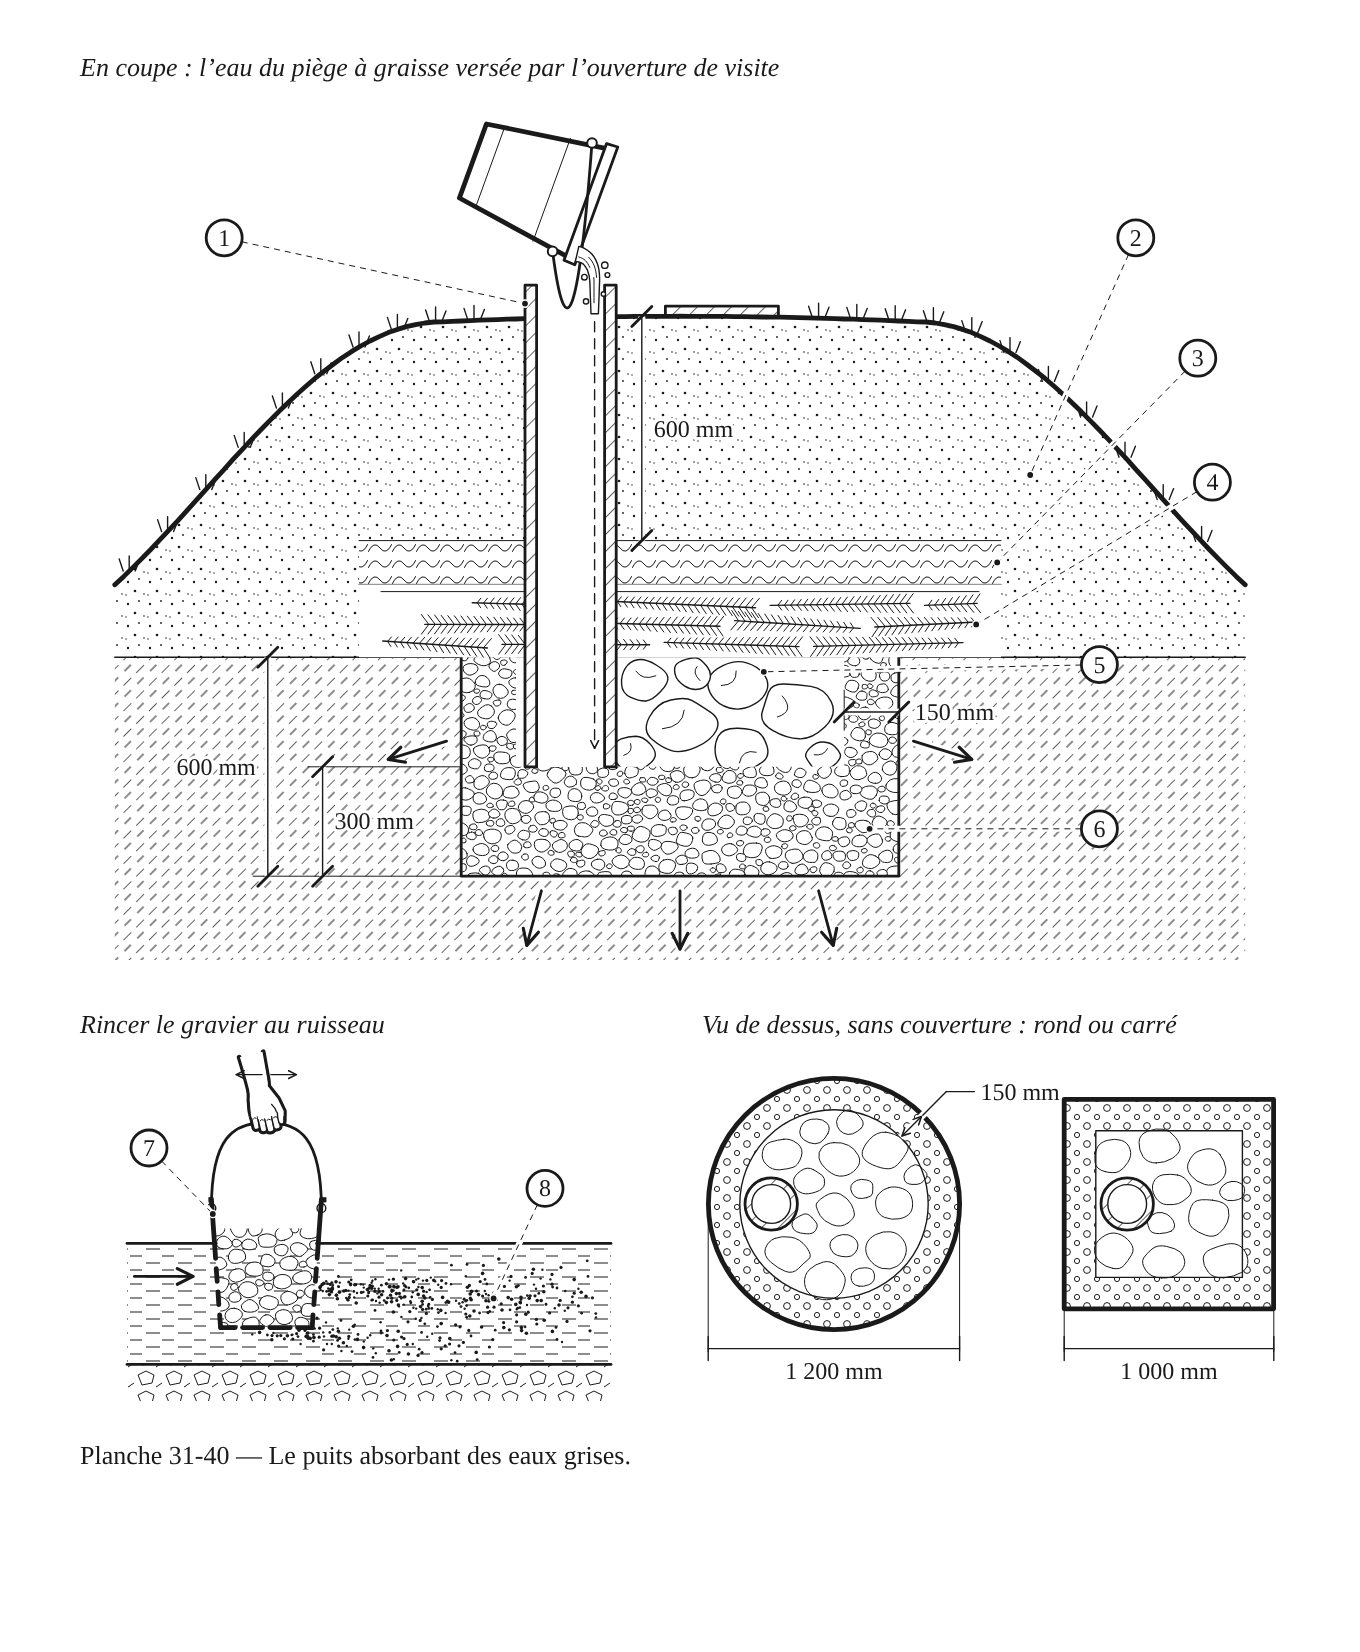
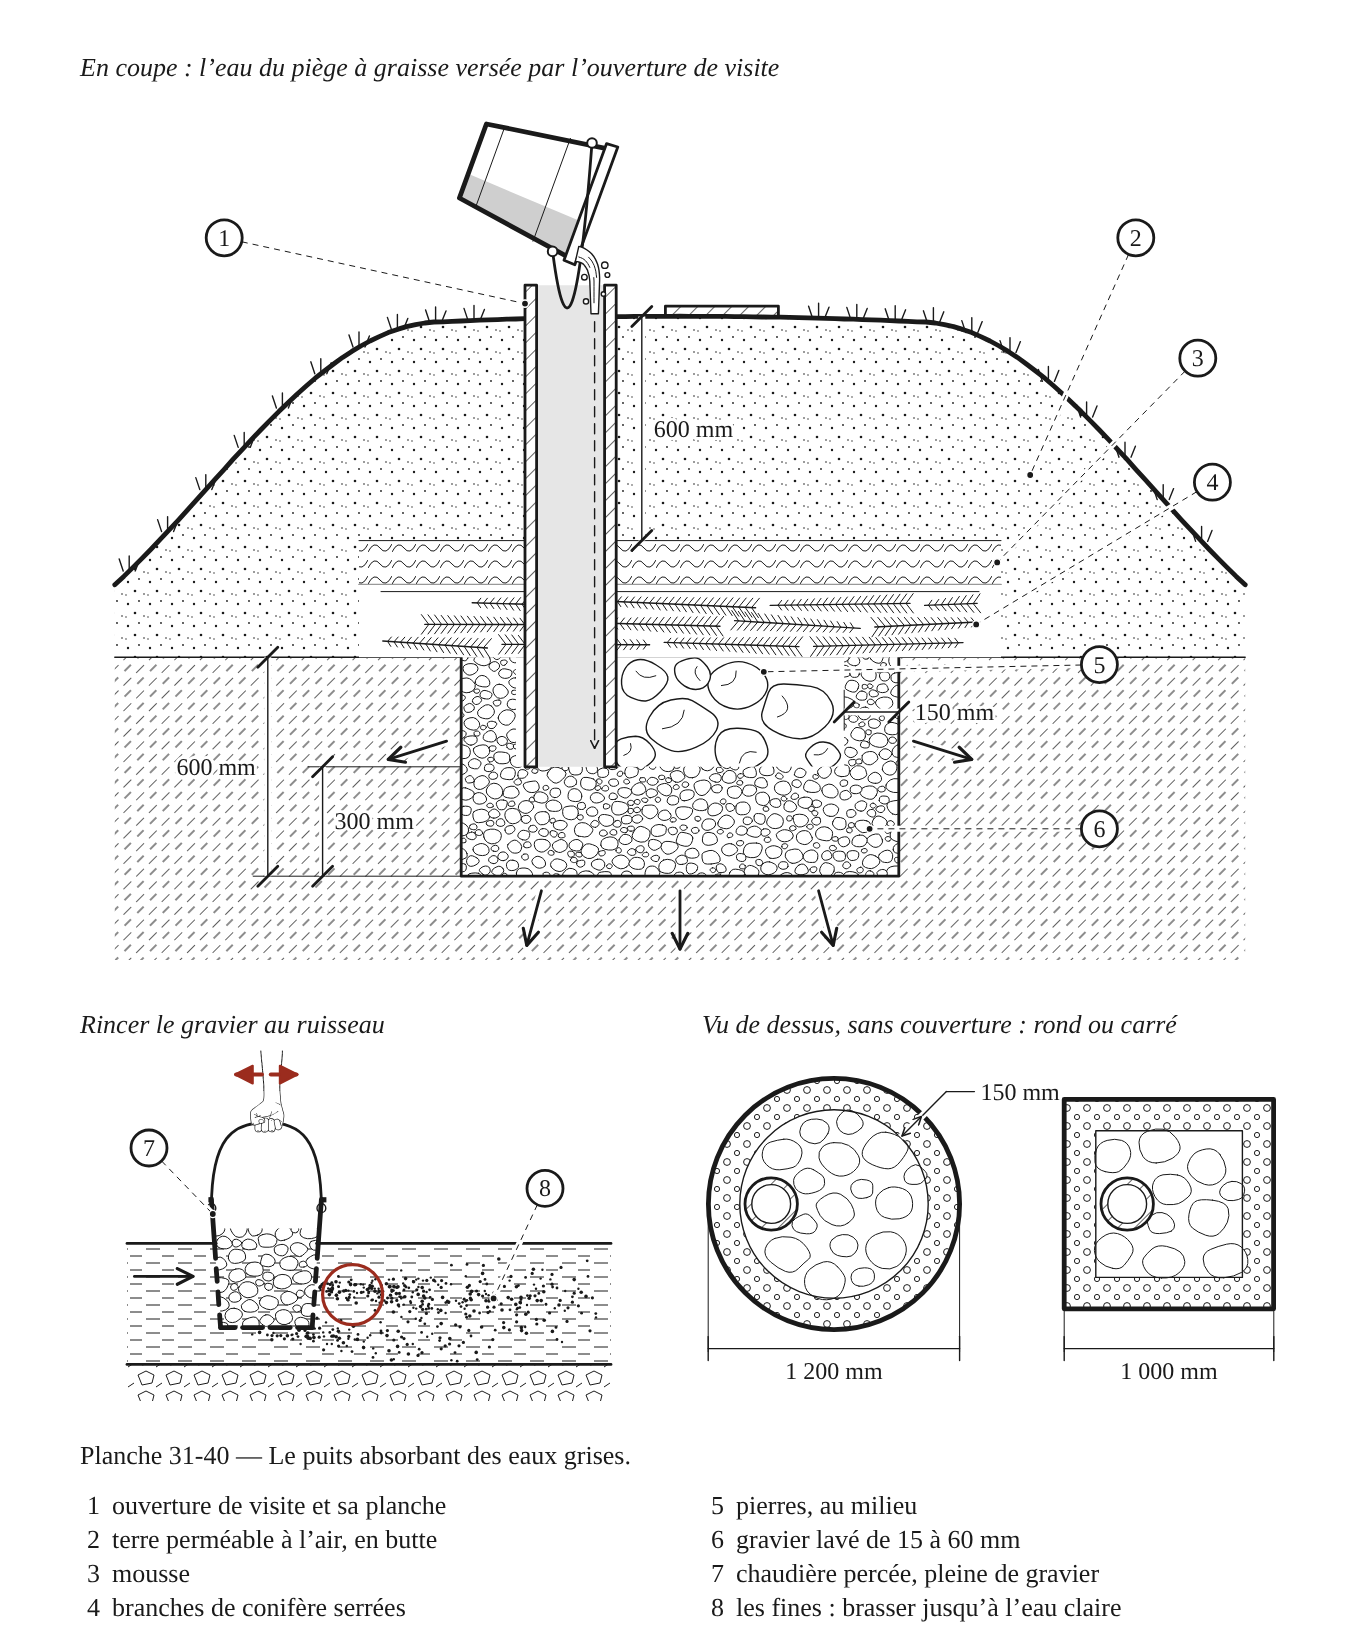
Charte et mains : travail en cours
Claude-Session: https://claude.ai/code/session_014xDY5FLxFXDJt3nYAYznSZ

diff --git a/images/planches-src/91-11.js b/images/planches-src/91-11.js
@@ -5,11 +5,16 @@
 // Ajouts de construction que le chapitre ne nomme pas, pour que la chose se bâtisse et marche :
 // les bûches (le bas ouvert doit respirer), les tasseaux (la claie doit reposer sur quelque
 // chose), la porte à l'avant (les claies doivent sortir pour être tournées).
+// La charte : la caisse et sa claie au contour fort ; le poêle, qui n'est là que pour dire « à
+// côté », recule en gris loin, en coupe comme de dessus ; la claie du haut, vue par la part
+// ouverte du trou, en gris loin aussi. Le rouge : la tôle qu'on avance ou recule (le geste), et
+// la perle de jus du fruit pas prêt (le point que le test vérifie). Les flèches d'air restent
+// noires.
 
 module.exports = (h) => {
   const f = v => Math.round(v * 10) / 10;
   const blanc = a => a.replace('fill="none"', 'fill="#FFFFFF"');
-  const deuxBouts = a => `${a} marker-start="url(#fl)" marker-end="url(#fl)"`;
+  const gris = a => a.replace('fill="none"', 'fill="#E6E6E6"');
   const fleAir = d => h.fleche(d, h.a.cache);
 
   // Proportions communes à la coupe et au plan, en fractions de la largeur de la coupe.
@@ -41,13 +46,13 @@ module.exports = (h) => {
 
     // poêle, en élévation
     const { xs0, ws, ybB, ybT, hs } = c;
-    o.push(h.rect(xs0 + 6, ybB, 7, c.pattes, blanc(h.a.arete)));
-    o.push(h.rect(xs0 + ws - 13, ybB, 7, c.pattes, blanc(h.a.arete)));
+    o.push(h.rect(xs0 + 6, ybB, 7, c.pattes, gris(h.a.arete)));
+    o.push(h.rect(xs0 + ws - 13, ybB, 7, c.pattes, gris(h.a.arete)));
     const xp = xs0 + ws * 0.62, wp = 16;
-    o.push(h.rect(xp, 0, wp, ybT - 6, blanc(h.a.arete)));
+    o.push(h.rect(xp, 0, wp, ybT - 6, gris(h.a.arete)));
     o.push(h.ligne(xp, f((ybT - 6) * 0.45), xp + wp, f((ybT - 6) * 0.45), h.a.detail));
-    o.push(h.rect(xs0, ybT, ws, hs, blanc(h.a.arete)));
-    o.push(h.rect(xs0 - 4, ybT - 6, ws + 8, 6, blanc(h.a.arete)));
+    o.push(h.rect(xs0, ybT, ws, hs, gris(h.a.arete)));
+    o.push(h.rect(xs0 - 4, ybT - 6, ws + 8, 6, gris(h.a.arete)));
     const px = xs0 + ws * 0.14, pw = ws * 0.6, py = ybT + hs * 0.24, ph = hs * 0.48;
     o.push(h.rect(f(px), f(py), f(pw), f(ph), h.a.detail));
     o.push(h.ligne(f(px + pw - 9), f(py + ph * 0.4), f(px + pw - 9), f(py + ph * 0.6), h.a.arete));
@@ -119,15 +124,16 @@ module.exports = (h) => {
   const dessinPlan = z => {
     const p = plan(z), o = [];
     // poêle, vu de dessus
-    o.push(h.rect(p.xs0, p.ySt, p.ws, p.dS, blanc(h.a.arete)));
+    o.push(h.rect(p.xs0, p.ySt, p.ws, p.dS, gris(h.a.arete)));
     o.push(h.rect(p.xs0 + 5, p.ySt + 5, p.ws - 10, p.dS - 10, h.a.detail));
-    o.push(h.cercle(f(p.xs0 + p.ws * 0.66), f(p.ySt + p.dS * 0.36), 8, blanc(h.a.arete)));
+    o.push(h.cercle(f(p.xs0 + p.ws * 0.66), f(p.ySt + p.dS * 0.36), 8, gris(h.a.arete)));
 
     // dessus de la caisse, percé
     o.push(h.rect(p.xB, p.yBk, p.wB, p.dB, blanc(h.a.contour)));
     // l'ouverture : en tireté sous la tôle, en trait plein là où elle est découverte
     o.push(h.rect(p.xO1, p.yO1, p.xO2 - p.xO1, p.yO2 - p.yO1, h.a.cache));
-    // la claie du haut, vue par la part ouverte
+    // la claie du haut, vue par la part ouverte : l'intérieur, en gris loin
+    o.push(h.rect(p.xT1, p.yO1, p.xO2 - p.xT1, p.yO2 - p.yO1, h.a.loin));
     for (let y = p.yO1 + 8; y < p.yO2 - 4; y += 10) {
       for (let x = p.xT1 + 7; x < p.xO2 - 4; x += 10) o.push(h.cercle(x, y, 3.8, h.a.detail));
     }
@@ -138,7 +144,8 @@ module.exports = (h) => {
     o.push(h.path(`M ${p.xT1} ${p.yO1} L ${p.xO1} ${p.yO1} L ${p.xO1} ${p.yO2} L ${p.xT1} ${p.yO2}`, h.a.cache));
     o.push(h.path(`M ${p.xT1} ${p.yO1} L ${p.xO2} ${p.yO1} L ${p.xO2} ${p.yO2} L ${p.xT1} ${p.yO2}`, h.a.arete));
     const yf = p.yBk - 16;
-    o.push(h.path(`M ${p.xO1 - 10} ${yf} L ${p.xT1 + 14} ${yf}`, deuxBouts(h.a.arete)));
+    // le geste : avancer ou reculer la tôle
+    o.push(h.geste(`M ${p.xO1 - 10} ${yf} L ${p.xT1 + 14} ${yf}`, { double: true }));
 
     // porte à l'avant, charnière du côté opposé au poêle
     const ep = 5, xH = p.xB + p.wB, yH = p.yF + ep;
@@ -230,6 +237,8 @@ module.exports = (h) => {
       const gx = x + 2, gy = yc + 1;
       o.push(h.path(`M ${gx} ${gy} C ${gx + 8} ${gy + 6} ${gx + 10} ${gy + 14} ${gx} ${gy + 18} C ${gx - 10} ${gy + 14} ${gx - 8} ${gy + 6} ${gx} ${gy} Z`, blanc(h.a.arete)));
       o.push(h.path(`M ${gx - 4} ${gy + 10} Q ${gx - 4} ${gy + 14} ${gx - 0.5} ${gy + 15}`, h.a.fin));
+      // le point que le test vérifie : la fente pressée qui laisse sortir le jus
+      o.push(h.controle(gx, gy + 9, 14));
       o.push(couronne(x, yc - R + 7));
     }
     // 3. séché trop chaud, coupé en deux : croûte dehors, humide au centre

diff --git a/images/planches-src/82-10a.js b/images/planches-src/82-10a.js
@@ -6,6 +6,11 @@
 //
 // Chaque vue a son repère de modèle (unités arbitraires, jamais imprimées), mis à l'échelle
 // par cadre() pour remplir la vue en gardant les proportions.
+//
+// La charte : de côté, le dessous de la tôle roulée et le dessous des bouts de bille à l'ombre ;
+// la clé en coupe, l'intérieur du tuyau en gris loin. Le rouge : le coup de marteau qui rabat le
+// joint (deux vues), et le jour entre le disque et la paroi, le point qui décide du tirage. La
+// fumée reste noire.
 
 module.exports = (h) => {
   const f = v => +v.toFixed(1);
@@ -42,18 +47,25 @@ module.exports = (h) => {
     // le sol
     o.push(g.R(0, 185, 600, 11, h.a.hachure('terre', 'aucun')), g.L(0, 185, 600, 185, h.a.arete));
     // la bille de côté, coupée à la scie aux deux bouts
-    o.push(g.P(g.D(['M', 12, cy - r], ['L', 390, cy - r], ['L', 393, cy - 20], ['L', 390, cy + r],
-      ['L', 12, cy + r], ['L', 9, cy + 15], ['Z']), W('arete')));
+    const dBille = g.D(['M', 12, cy - r], ['L', 390, cy - r], ['L', 393, cy - 20], ['L', 390, cy + r],
+      ['L', 12, cy + r], ['L', 9, cy + 15], ['Z']);
+    o.push(g.P(dBille, h.a.blanc));
+    // le dessous des deux bouts de bille, à l'ombre
+    o.push(g.P(g.D(['M', 11, cy + 46], ['L', 60, cy + 46], ['L', 60, cy + r], ['L', 12, cy + r], ['Z']), h.a.ombre));
+    o.push(g.P(g.D(['M', 330, cy + 46], ['L', 390.6, cy + 46], ['L', 390, cy + r], ['L', 330, cy + r], ['Z']), h.a.ombre));
+    o.push(g.P(dBille, h.a.arete));
     [[16, 70, 44], [22, 96, 50], [14, 150, 40], [26, 168, 52], [336, 72, 384], [344, 100, 380],
       [334, 142, 378], [348, 166, 386]].forEach(([x1, y, x2]) => o.push(g.L(x1, y, x2, y, h.a.fin)));
     // la tôle roulée dessus, et le joint agrafé sur toute la longueur, en haut
-    o.push(g.R(60, cy - r - 3, 270, 2 * r + 6, W('contour')));
+    o.push(g.R(60, cy - r - 3, 270, 2 * r + 6, h.a.blanc));
+    o.push(g.R(60, cy + r - 16, 270, 19, h.a.ombre));   // le dessous de la tôle roulée, à l'ombre
+    o.push(g.R(60, cy - r - 3, 270, 2 * r + 6, h.a.contour));
     [cy + r - 14, cy + r - 8, cy + r - 3].forEach(y => o.push(g.L(64, y, 326, y, h.a.fin)));
     o.push(g.R(60, cy - r - 10, 270, 7, W('arete')), g.L(60, cy - r - 6.5, 330, cy - r - 6.5, h.a.fin));
     // le marteau qui rabat le joint
     o.push(g.P(g.D(['M', 214, 11], ['L', 322, 3], ['L', 324, 11], ['L', 214, 20], ['Z']), W('arete')));
     o.push(g.R(186, 2, 28, 28, W('arete')));
-    o.push(g.F(g.D(['M', 176, 6], ['L', 176, 40])));
+    o.push(h.geste(g.D(['M', 176, 6], ['L', 176, 40])));
     // du bout : les cernes, la tôle autour, le joint en haut
     const bx = 515;
     o.push(g.C(bx, cy, r, W('arete')));
@@ -101,7 +113,7 @@ module.exports = (h) => {
     o.push(...rabattu(ox));
     o.push(g.P(g.D(['M', ox + 92, 22], ['L', ox + 136, 18], ['L', ox + 137, 25], ['L', ox + 92, 29], ['Z']), W('arete')));
     o.push(g.R(ox + 64, 12, 28, 30, W('arete')));
-    o.push(g.F(g.D(['M', ox + 54, 10], ['L', ox + 54, 44])));
+    o.push(h.geste(g.D(['M', ox + 54, 10], ['L', ox + 54, 44])));
 
     // 4. river, la bille sortie : le rivet traverse les quatre épaisseurs
     ox = 450;
@@ -118,6 +130,8 @@ module.exports = (h) => {
   const cx = 120, R = 80, jeu = 12, yd = 150;
   const cle = z => {
     const g = cadre(z, ...MC), o = [];
+    // l'intérieur du tuyau, vu par la coupe
+    o.push(g.R(cx - R, 6, 2 * R, 288, h.a.loin));
     // la fumée monte, se partage au disque et passe par le tour
     [1, -1].forEach(k => {
       const a = cx - k * 20, b = cx - k * (R - jeu / 2);
@@ -131,6 +145,8 @@ module.exports = (h) => {
     o.push(g.P(g.D(['M', cx - 6, yd + 1.5], ['C', cx - 7, yd - 14, cx + 7, yd - 14, cx + 6, yd + 1.5]), h.a.contour));
     // ouvert : le même disque tourné sur la tige, de chant
     o.push(g.R(cx + 1, yd - 4 - (R - jeu), 3, 2 * (R - jeu), h.a.cache));
+    // le point qui décide : le jour entre le disque et la paroi
+    o.push(g.C(cx - R + jeu / 2, yd + 1.5, 10, h.a.controle));
     return o.join('\n');
   };
 

diff --git a/images/planches-src/31-40.js b/images/planches-src/31-40.js
@@ -1,5 +1,10 @@
 // Planche 31-40 — Le puits absorbant des eaux grises (ch. 31, section F, étapes 32, 33, 35 ;
 // variante « Le puits absorbant fait à la pelle »). Suite de la 31-04 (le piège à graisse).
+//
+// La charte : les coupes et le plan gardent leurs trames, sans gris, sauf l'intérieur du tronc de
+// visite, vu par la coupe, en gris loin ; le flanc du dessous du seau penché est à l'ombre. Le
+// rouge : le va-et-vient de la main qui brasse la chaudière, et le cercle sur l'eau qui sort, qui
+// doit sortir claire. Les flèches de l'eau restent noires ; la main (modèle s11) n'est pas touchée.
 module.exports = (h) => {
   const N = '#1A1A1A', B = '#FFFFFF';
   const f = v => Math.round(v * 10) / 10;
@@ -132,6 +137,7 @@ module.exports = (h) => {
 
     // l'ouverture de visite : un tronc creux, du gravier du fond jusqu'au-dessus de la butte
     out.push(poly([[tx - tr, tH], [tx + tr, tH], [tx + tr, tB], [tx - tr, tB]], h.a.blanc));
+    out.push(poly([[tx - tr + te, tH], [tx + tr - te, tH], [tx + tr - te, tB], [tx - tr + te, tB]], h.a.loin));   // l'intérieur du tronc, vu par la coupe
     out.push(poly([[tx - tr, tH], [tx - tr + te, tH], [tx - tr + te, tB], [tx - tr, tB]], h.a.hachure('bois', 'arete')));
     out.push(poly([[tx + tr - te, tH], [tx + tr, tH], [tx + tr, tB], [tx + tr - te, tB]], h.a.hachure('bois', 'arete')));
     // sa planche, ôtée et posée sur la butte
@@ -150,7 +156,9 @@ module.exports = (h) => {
     const R = (x, y) => [bx + x * Math.cos(th) - y * Math.sin(th), by + x * Math.sin(th) + y * Math.cos(th)];
     // chaudière : flancs évasés vers l'ouverture, bourrelet roulé au rebord, anse qui pend
     const seau = [R(-160, 0), R(160, 0), R(108, 350), R(-108, 350)];
-    out.push(poly(seau, `fill="${B}" ${h.a.contour.replace('fill="none" ', '')}`));
+    out.push(poly(seau, h.a.blanc));
+    out.push(poly([R(55, 0), R(160, 0), R(108, 350), R(37, 350)], h.a.ombre));   // le flanc du dessous, à l'ombre
+    out.push(poly(seau, h.a.contour));
     out.push(poly([R(-172, -10), R(172, -10), R(170, 22), R(-170, 22)], `fill="${B}" ${h.a.arete.replace('fill="none" ', '')}`));   // bourrelet
     out.push(poly([R(-150, 120), R(150, 120)], h.a.fin, false), poly([R(-118, 300), R(118, 300)], h.a.fin, false));
     {
@@ -276,8 +284,10 @@ module.exports = (h) => {
     const c0 = P(-360, 90), c1 = P(-200, 90);
     out.push(h.fleche(`M${f(c0[0])} ${f(c0[1])} L${f(c1[0])} ${f(c1[1])}`, h.a.arete));
     const v = P(0, -460), dv = 70 * s;
-    out.push(h.fleche(`M${f(v[0] + 12 * s)} ${f(v[1])} L${f(v[0] + 12 * s + dv)} ${f(v[1])}`, h.a.detail));
-    out.push(h.fleche(`M${f(v[0] - 12 * s)} ${f(v[1])} L${f(v[0] - 12 * s - dv)} ${f(v[1])}`, h.a.detail));
+    out.push(h.geste(`M${f(v[0] + 12 * s)} ${f(v[1])} L${f(v[0] + 12 * s + dv)} ${f(v[1])}`));
+    out.push(h.geste(`M${f(v[0] - 12 * s)} ${f(v[1])} L${f(v[0] - 12 * s - dv)} ${f(v[1])}`));
+    // ce qu'on regarde : l'eau qui sort de la chaudière, jusqu'à ce qu'elle sorte claire
+    out.push(h.controle(...P(235, 140), 15));
     return out.join('\n');
   };
 

diff --git a/images/planches-src/99-08.js b/images/planches-src/99-08.js
@@ -162,6 +162,8 @@ module.exports = (h) => {
     ecorce(t4, 22, 7, 0.02, 0.6);
     bourgeonBout(t4, 5, 3.2);
     S.push(t4);
+    // charte : le tronc de chaque tige, l'objet de la vue, porte le contour à 2,4 ; les rameaux restent à 1,4
+    S.forEach(s => { s.trait = blanc(A.contour); });
     return { gy, H, X, S, cour3 };
   };
   const ages = z => {
@@ -234,10 +236,15 @@ module.exports = (h) => {
     const fond = [];
     for (let i = 1; i < 12; i++) { const f = Math.PI * i / 12; fond.push(add(add(P0, piece.N(0), -rs * Math.cos(f)), piece.T(0), -0.32 * rs * Math.sin(f))); }
     o.push(h.chemin([...fond, ...D, ...G.slice().reverse()], A.blanc, true));
-    o.push(h.chemin([G[n], ...G.slice(0, n).reverse(), G[0], ...fond, D[0], ...D.slice(1)], A.arete));
+    // la face à l'ombre du bout enlevé (lumière en haut à gauche) : le tiers de droite
+    const Dm = D.map((p, i) => { const t = i / n, q = piece.P(t), nm = piece.N(t), r = piece.w(t) / 2; return add(q, nm, r * 0.35); });
+    o.push(h.chemin([...Dm, ...D.slice().reverse()], A.ombre, true));
+    o.push(h.chemin([G[n], ...G.slice(0, n).reverse(), G[0], ...fond, D[0], ...D.slice(1)], A.contour));
     ecorce(piece, 12, 51, 0.05, 0.95); o.push(...piece.apres);
-    // le geste : on l'enlève
-    o.push(h.fleche(`M${r1(sx + 34)} ${r1(g.gy - 14)} L${r1(sx + 34)} ${r1(g.gy - 78)}`, A.arete));
+    // le geste : on l'enlève (charte : la flèche du geste en rouge)
+    o.push(h.geste(`M${r1(sx + 34)} ${r1(g.gy - 14)} L${r1(sx + 34)} ${r1(g.gy - 78)}`));
+    // le point à contrôler : la coupe à plat avec la terre
+    o.push(h.controle(sx, cy, rs + 7));
     return o.join(NL);
   };
 
